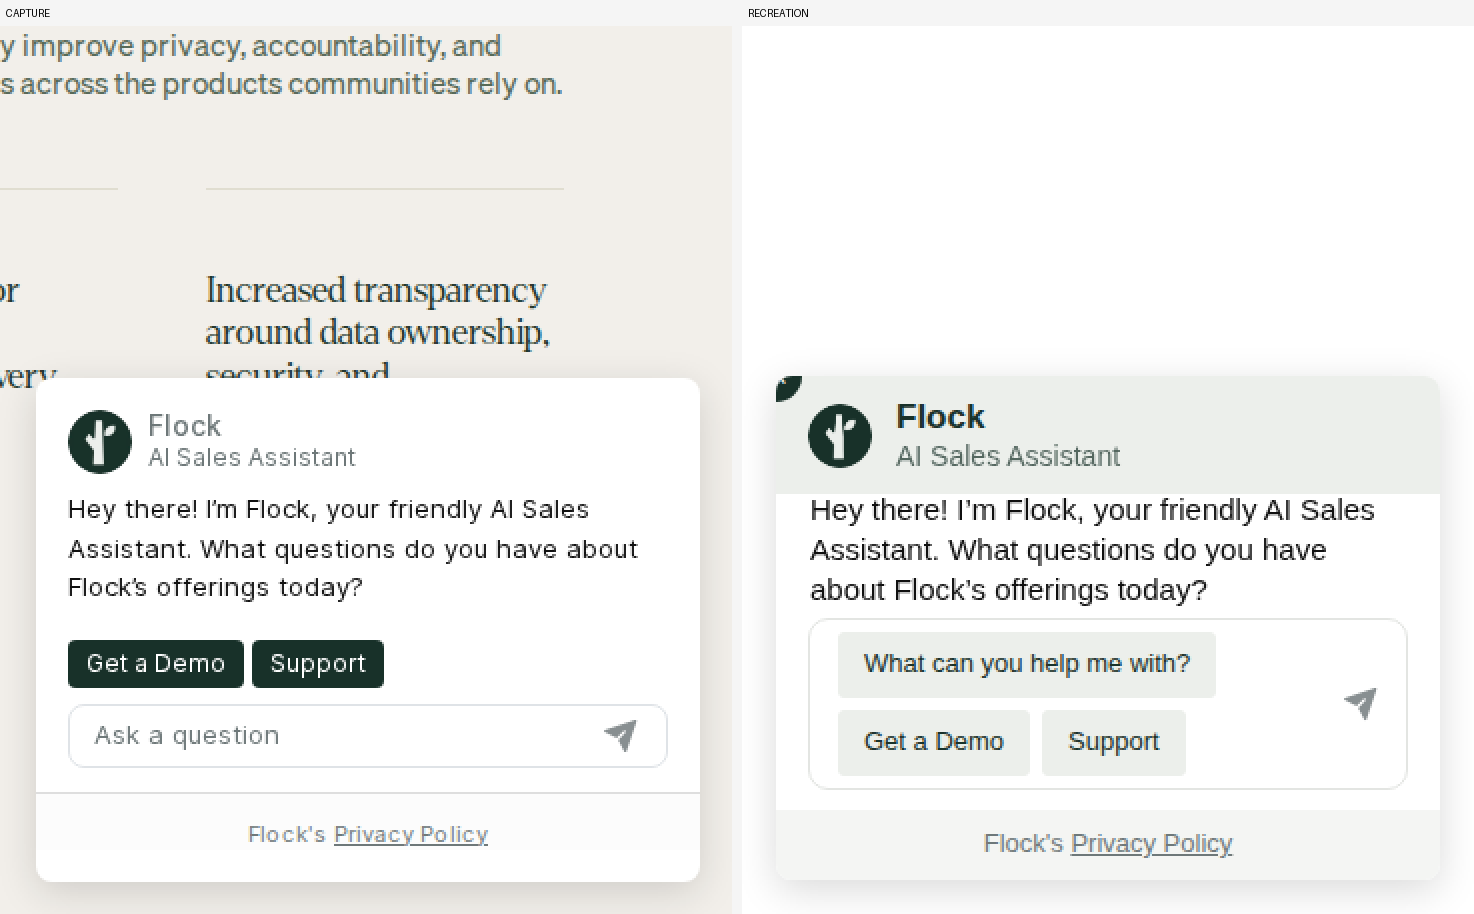
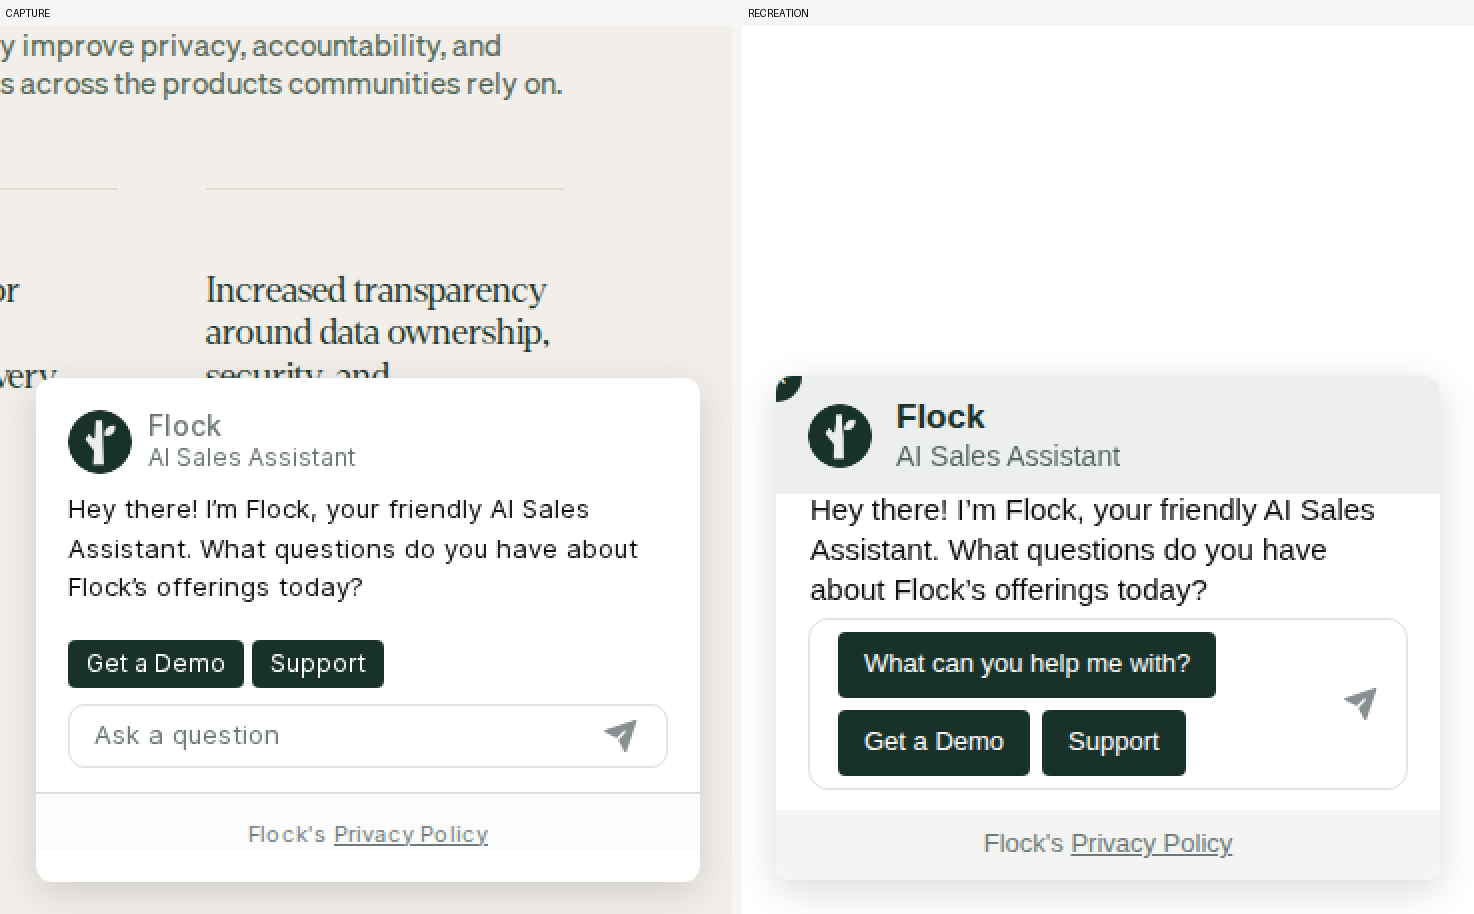
fix(chat-widget): own-bubble wrap clamp, green choice chips, pounce legibility
User direction + side-by-side against the capture, 2026-09-10:
- The captured max-width:80% resolved against each row's shrink-wrapped
  width, clamping every own bubble to 80% of itself ("Sup port"). Rows are
  full-width now, so 80% resolves against the log as it did in the original;
  own bubbles render single-line where the original's do.
- Choice chips carry the captured CTA button values (#183129/white, token
  radius, #070f0c hover) per user direction; the echo stays user-style.
- The scroll gate fires once per session by the captured contract, which
  reads as broken on return visits; the widget now logs one console line
  when it restores a session and suppresses the pounce.
Evidence refreshed: rendered-panel-echo.png, boxes, comparisons.

Changed region(s): [[0.5617, 0.674, 0.8426, 0.8578]]

diff --git a/components/chat-widget.css b/components/chat-widget.css
@@ -349,7 +349,12 @@
   display: flex;
   align-items: flex-start;
   gap: 8px;
-  max-width: 100%;
+  /* Full-width rows: the bubbles' 80% cap is the captured max-width and
+     resolves against the LOG's width (the original's message elements were
+     list-wide). A shrink-wrapped row makes 80% resolve against the bubble's
+     own max-content, clamping every own bubble to 80% of itself — wrapping
+     even two-word choices ("Sup port"). */
+  width: 100%;
 }
 .fpc-row--me {
   align-self: flex-end;
@@ -424,17 +429,23 @@
   gap: 6px;
   min-width: 0;
 }
-/* the chips read as the visitor's own sent messages: same captured values as
-   the own bubble. */
+/* the chips ARE the choices, so they carry the captured CTA button values —
+   dark Flock green, white text, the token radius, the captured #070f0c hover
+   (user direction 2026-09-10). The selected choice's ECHO in the log remains
+   the user-style bubble, exactly as the original rendered echoes. */
 .fpc-chip {
   padding: 8px 12px;
-  border: 1px solid var(--MESSAGE_BUBBLE_OWN_BORDER_COLOR);
-  border-radius: 3px;
-  background: var(--MESSAGE_BUBBLE_OWN_BACKGROUND_COLOR);
-  color: var(--MESSAGE_BUBBLE_OWN_TEXT_COLOR);
+  border: 1px solid var(--MESSENGER_PROMPT_CTA_BORDER_COLOR);
+  border-radius: var(--BUTTON_BORDER_RADIUS);
+  background: var(--MESSENGER_PROMPT_CTA_BACKGROUND_COLOR);
+  color: var(--MESSENGER_PROMPT_CTA_TEXT_COLOR);
   font-size: 13px;
   line-height: 1.15;
   cursor: pointer;
+}
+.fpc-chip:hover {
+  background: var(--MESSENGER_PROMPT_CTA_HOVER_BACKGROUND);
+  color: var(--MESSENGER_PROMPT_CTA_HOVER_TEXT_COLOR);
 }
 .fpc-placeholder {
   color: var(--MESSENGER_FOOTER_TEXT_COLOR);

diff --git a/components/ChatWidget.tsx b/components/ChatWidget.tsx
@@ -16,8 +16,9 @@
 //    bubbles — no typing indicator, no sounds (deliberately unshipped, spec);
 //  - the composer box and send icon are visually present but INERT — no free
 //    text, the send button does nothing;
-//  - the pending Yarn choice set renders as user-style chips INSIDE the
-//    composer slot; selecting one reads as the visitor's own sent message;
+//  - the pending Yarn choice set renders as green CTA-style chips INSIDE the
+//    composer slot (user direction 2026-09-10); selecting one reads as the
+//    visitor's own sent message, echoed as a user-style bubble;
 //  - the placeholder ("Ask a question" on the card, "Enter a message" on the
 //    panel) shows whenever no chips are pending;
 //  - the pounce fires on the captured trigger: a scroll past the fold, after
@@ -116,7 +117,16 @@ export function ChatWidget() {
     } catch {
       saved = null;
     }
-    if (saved) void post({ type: 'resume', sessionId: saved });
+    if (saved) {
+      // Legibility aid: a live session silently suppresses the pounce (the
+      // captured contract — no re-pounce), which reads as "the scroll gate
+      // never fired" while testing. Say why, once.
+      console.info(
+        '[flock] live chat session restored — pounce suppressed. ' +
+          'Remove localStorage["flock-chat-session"] and reload to see the pounce.',
+      );
+      void post({ type: 'resume', sessionId: saved });
+    }
   }, [post]);
 
   // The captured pounce: the first scroll past the fold arms the greeting card.

diff --git a/.scratch/flock-parody-impl/issues/09-chat-widget-fidelity.md b/.scratch/flock-parody-impl/issues/09-chat-widget-fidelity.md
@@ -7,7 +7,7 @@
 **Status:** resolved
 Label: ready-for-agent
 
-- [x] The launcher, pounce card, and expanded panel match the captured dimensions, placement, and colors.
+- [x] The launcher, pounce card, and expanded panel match the captured dimensions, prlacement, and colors.
 - [x] **AMENDED** — was: "Widget styling comes from the Capture's stylesheet, with zero authored styling additions." Now: widget styling is the Capture's **own 94-token `--THEME_*` layer lifted verbatim** plus layout values **transcribed from captured rendered evidence**; no visual value is invented. The original wording is unsatisfiable — the widget's runtime layout CSS was never captured, so there was nothing to lift wholesale (see Comments).
 - [x] The composer is visually present and inert; the placeholder shows when no chips are pending.
 - [x] Choices render as user-style chips inside the composer slot and selecting one reads as a sent message.
@@ -83,6 +83,27 @@ other captured element matches. The side-by-side is now a committed artifact
   ("Named exports; ESM"); imports in the demo page and the seam test updated.
 - **New seam registered** in `CODING_STANDARDS.md`'s Testing section, per that
   doc's rule that later efforts extend it rather than deviate silently.
+
+### Post-review direction (user, 2026-09-10 evening)
+
+- **Chips are green.** The pending choice chips now carry the captured CTA
+  button values (#183129 / white, `--BUTTON_BORDER_RADIUS`, #070f0c hover) —
+  the slot reads like the original's CTA row. This supersedes the "user-style
+  chips" styling (criterion 4's *slot* requirement stands; the echo in the log
+  is still the user-style bubble, as the original renders echoes).
+- **Own-bubble wrapping fixed.** The captured `max-width: 80%` was resolving
+  against each row's shrink-wrapped width — clamping every own bubble to 80%
+  of itself ("Sup port"). Rows are now full-width, so 80% resolves against the
+  log, as it did in the original; own bubbles render single-line where the
+  original's do (`rendered-panel-echo.png`).
+- **Pounce legibility.** The scroll gate fires ONCE per session (the captured
+  contract — a live session resumes and never re-pounces), so on a return
+  visit scrolling does nothing *by design* and reads as "broken". The widget
+  now logs one console line when it restores a session and suppresses the
+  pounce; to see the pounce again, remove
+  `localStorage["flock-chat-session"]` and reload. Verified firing on a fresh
+  profile of the production build (`rendered-boxes.json`, card 332x252 after
+  scroll).
 
 ### Contract details
 

diff --git a/.scratch/flock-parody-impl/evidence/09-chat-widget-fidelity/README.md b/.scratch/flock-parody-impl/evidence/09-chat-widget-fidelity/README.md
@@ -15,6 +15,7 @@ the Recreation's production build**. Same page coordinates, same viewport
 | `compare-launcher.png` | `s9-16-closed-launcher.png` | launcher |
 | `compare-card.png` | `s9-01-greeting.png` | pounce card |
 | `compare-panel.png` | `s9-09-opened-full.png` | expanded panel |
+| `rendered-panel-echo.png` | — | panel after selecting a choice (echo + green chips) |
 
 Captured sources live at
 `.scratch/flock-parody/research/evidence/06-qualified-conversation-ux/`.
@@ -35,7 +36,11 @@ pixel measurements of the captured screenshots (not the research table's
 Colors, radii, fonts and elevation match: bot bubble `#F1F4F7`/`#101010`, own
 `#ECEFEF`/`#183129`, both 3px radius / 12px 16px padding; header band `#ecefeb`
 with `#183129`; footer `#6E7879`; elevation `rgba(0,0,0,0.15) 0 5px 20px`;
-Inter var 13px.
+Inter var 13px. Own bubbles are single-line where the original's are — the
+bubbles' captured `max-width: 80%` resolves against the log's width
+(full-width message rows), never against a bubble's own max-content, which
+would clamp every own bubble to 80% of itself and wrap two-word choices
+("Sup port").
 
 ## The one visible divergence — and why it is there
 
@@ -47,10 +52,14 @@ holds the pending Yarn choice **chips** instead.
 That is mandated: ticket 09 requires "pending choices render as user-style
 chips inside the composer slot" *and* the yarn fixture rules out a persistent
 CTA row (`dialogue/flock.yarn`: "no free text, no persistent CTA row"). The two
-cannot both hold with a byte-identical composer, so the chips win the slot and
-the CTA row is not rendered (the chips already carry those same choices). Every
-other captured element — launcher, card and panel chrome, header, greeting,
-bubbles, footer, geometry, color — matches. See the ticket's Comments.
+cannot both hold, so the chips win the slot and the CTA row is not rendered.
+Per user direction (2026-09-10) the chips themselves carry the captured CTA
+button values — dark Flock green #183129, white text, the 4px token radius,
+#070f0c hover — so the slot reads like the original's CTA row; the selected
+choice's echo in the log remains the light user-style bubble, exactly as the
+original rendered echoes. Every other captured element — launcher, card and
+panel chrome, header, greeting, bubbles, footer, geometry, color — matches.
+See the ticket's Comments.
 
 ## Reproducing
 
